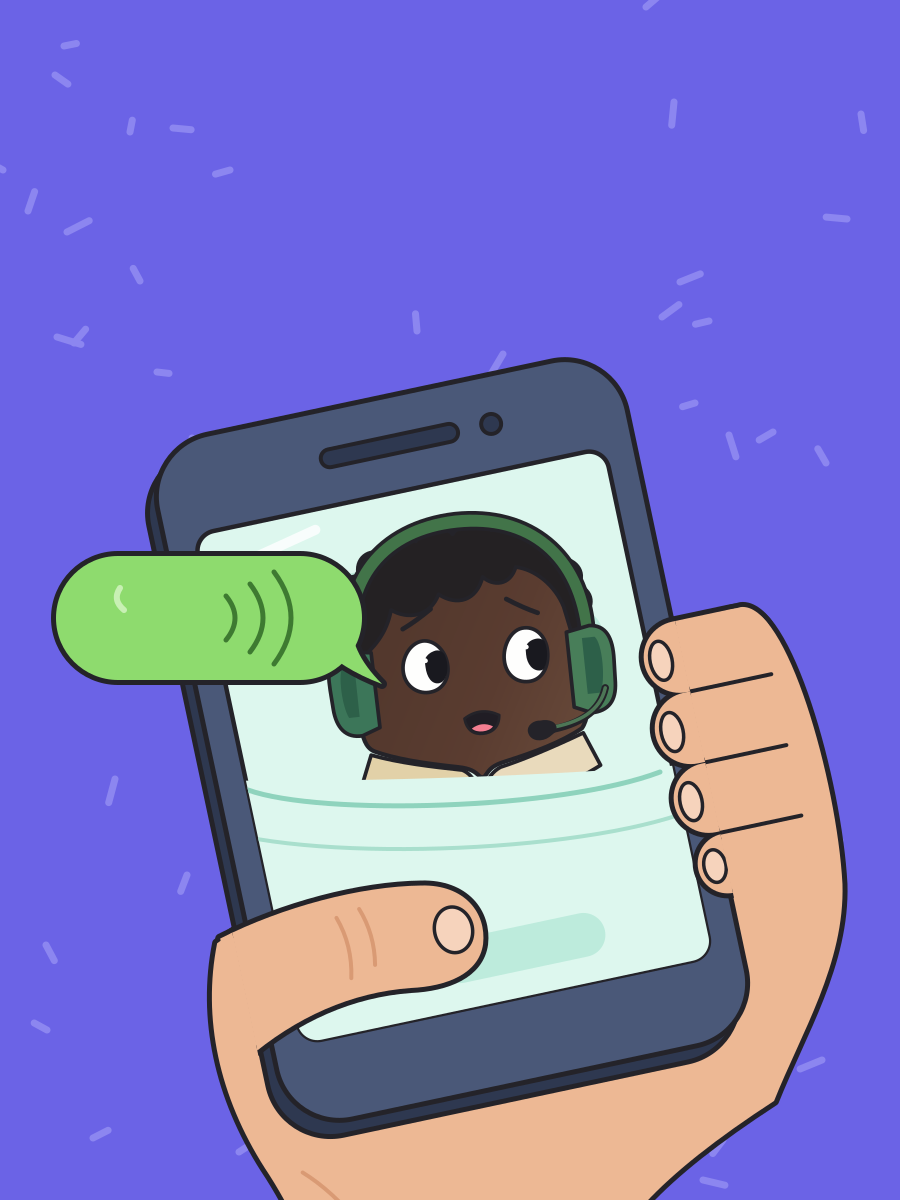
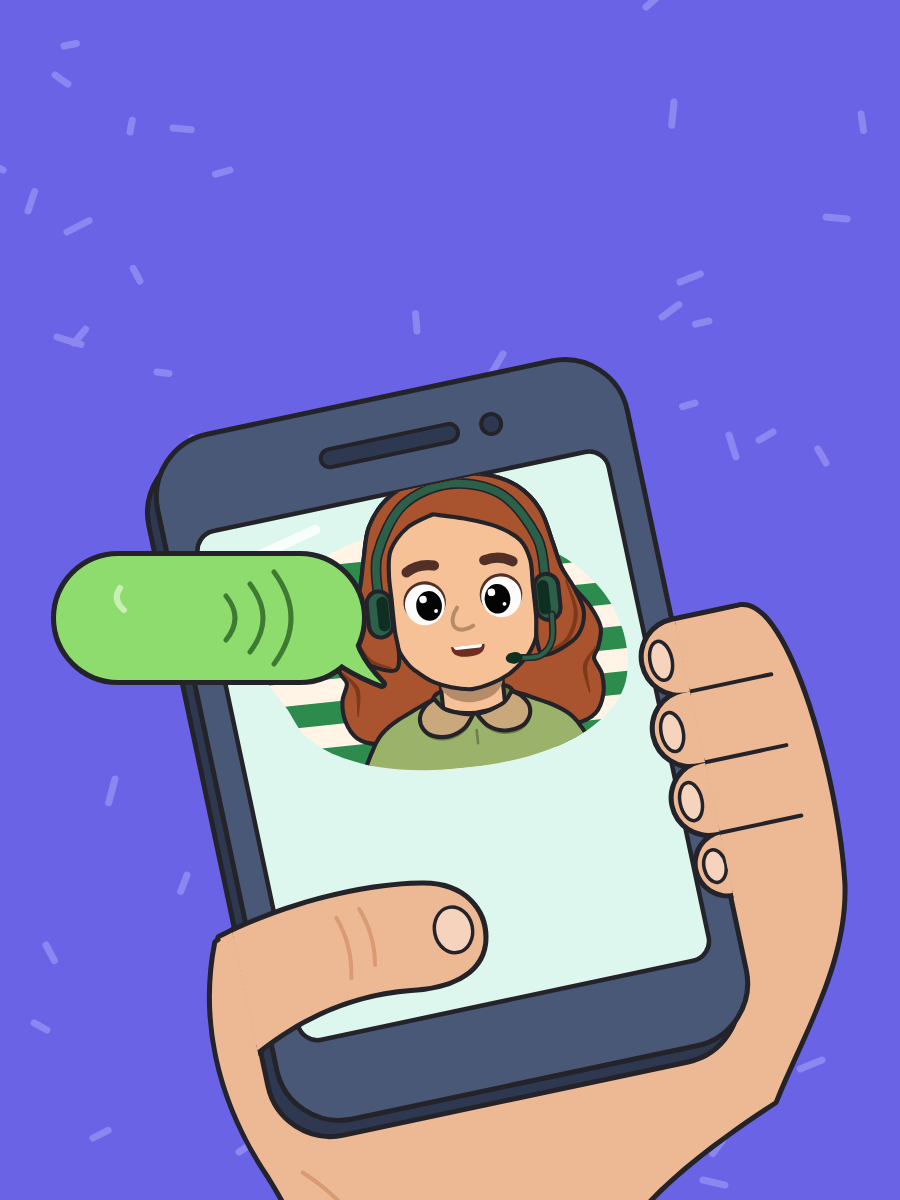
feat(programs): 8 program covers drawn with the site's layered kit cast
Interview Ready, Hard Conversations, Panic Button, Understanding Your Voice,
Breaking Thought Traps, Dating, Speech Toolkit and Word Swap now show the
same people as speechworks.app, in the kit's look. Each body ends under the
collar on a scene edge (screen, porthole, sign ring, photo frame, toolbox
rim, bubble heap) or on its kit blob, and every figure fits the Home card's
middle strip (y 422-778 of 1200 on the widest phone) with the full collar.
Screen-reader descriptions updated for these eight. Bouncing Back and Art of
Disclosure keep their old covers for now (hands still to add).

Source: sw-landing/artwork/program-covers/scenes/r4, build-r4.cjs.

diff --git a/app/util/packs/programCover.ts b/app/util/packs/programCover.ts
@@ -35,32 +35,32 @@ const BUNDLED_COVERS: Record<string, ImageSourcePropType> = {
 };
 
 /**
- * What each picture shows, for a screen reader. Written from the round 3
- * covers (sw-landing/artwork/program-covers/BRIEF.md): what is in the picture,
+ * What each picture shows, for a screen reader. Written from the round 4
+ * covers (the site's kit cast; sw-landing/artwork/program-covers/build-r4.cjs): what is in the picture,
  * never what the program promises. The iceberg is the one cover with words
  * on it, so its description reads them out.
  */
 const COVER_DESCRIPTIONS: Record<string, string> = {
   interview_ready:
-    "A video call on a desktop monitor. A person in a suit and tie looks ready to answer. Yellow sticky notes are stuck all round the screen. Some notes are crossed out and one has a tick.",
+    "A video call on a desktop monitor. A person in glasses, a suit and a tie looks ready to answer. Yellow sticky notes are stuck all round the screen. Some notes are crossed out and one has a tick.",
   hard_conversations:
-    "A hand holds a phone. A person with a headset rises out of the screen, looking worried, in the middle of a sentence. A green speech bubble carries their words out past the edge of the phone.",
+    "A hand holds a phone. On the screen, a person with red hair and a headset is speaking. A green speech bubble carries their words out past the edge of the phone.",
   panic_button:
-    "A big red no sign. Inside it, a person with blonde hair blowing sideways looks flustered, eyes wide and teeth gritted. Pale hands reach in from a blue cloud behind them, and the red bar of the sign crosses the hands out.",
+    "A big red no sign. Inside it, a person in a blue beanie looks scared, eyes wide and mouth open. Pale hands reach in from a blue cloud behind them, and the red bar of the sign crosses the hands out.",
   understanding_your_voice:
-    "An iceberg with a small tip above the water and a much bigger part below. Labels on the tip say Blocks and Repetitions. Labels below the water say Fear, Swapped words, Avoidance and Tiredness. A person in a headscarf looks out of a yellow submarine, and a few fish swim past.",
+    "An iceberg with a small tip above the water and a much bigger part below. Labels on the tip say Blocks and Repetitions. Labels below the water say Fear, Swapped words, Avoidance and Tiredness. A person in headphones looks out of a yellow submarine, and a few fish swim past.",
   breaking_thought_traps:
-    "A big head seen from the side, eyes closed and calm. At the back of the head a door stands open. A small version of the same person runs out of it, toward a flight of stairs.",
+    "A person in an orange beret laughs as the wooden cage around them breaks apart. The top of the cage flies off, a dark rain cloud drifts away and the sun comes out.",
   bouncing_back:
     "A person with braids and glasses springs up out of a jack-in-the-box, both arms raised high, with confetti all around.",
   dating_intimacy:
-    "Two profile cards lean toward each other. In one photo a person laughs, and in the other a person glances across at them. A heart and two speech bubbles sit between the cards.",
+    "Two profile cards lean toward each other. In each photo a person looks across at the other with a warm smile. Hearts and two speech bubbles sit between the cards.",
   speech_toolkit:
-    "A person in star-shaped glasses, a hard hat and a hi-vis vest stands behind an open toolbox. Tools are scattered all around: a wrench, a saw, a hammer, a drill, a tape measure, a level and a paintbrush.",
+    "A person in star-shaped glasses smiles behind an open toolbox. Tools are scattered all around: a wrench, a saw, a hammer, a drill, a tape measure, a level and a paintbrush.",
   art_of_disclosure:
     "A person in a cowboy hat looks over the top of a brick wall with a warm smile, fingers curled over the edge.",
   word_swap:
-    "A person with blonde pigtails sits up to the shoulders in a heap of speech bubbles of every shape. One orange bubble beside them stands out from the rest.",
+    "A person in a turban, smiling, sits up to the shoulders in a heap of speech bubbles of every shape. One orange bubble beside them stands out from the rest.",
 };
 
 /** The programs that ship with art, pinned by a test against the seeds. */
